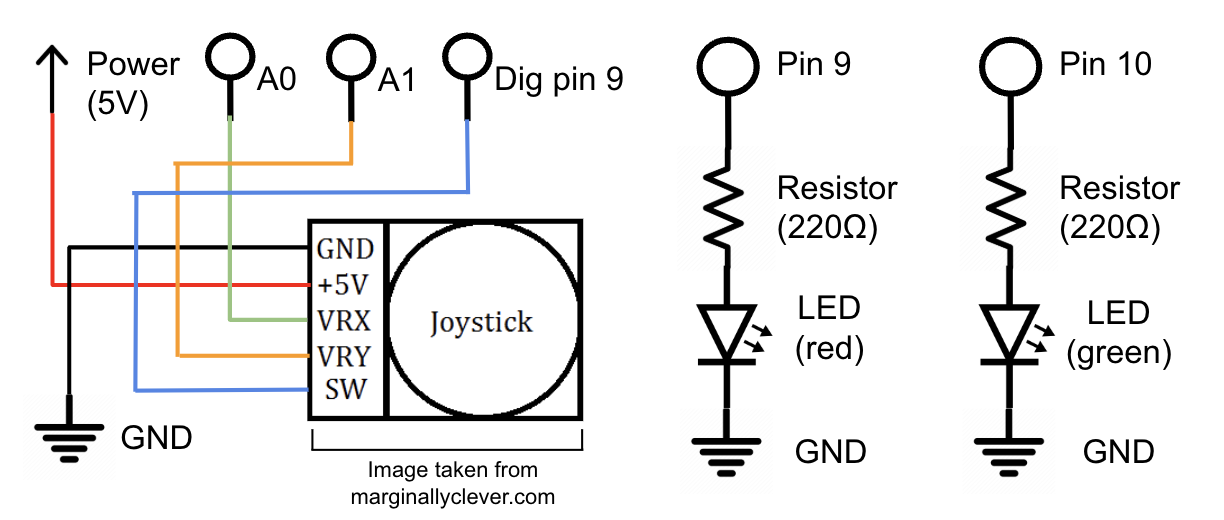
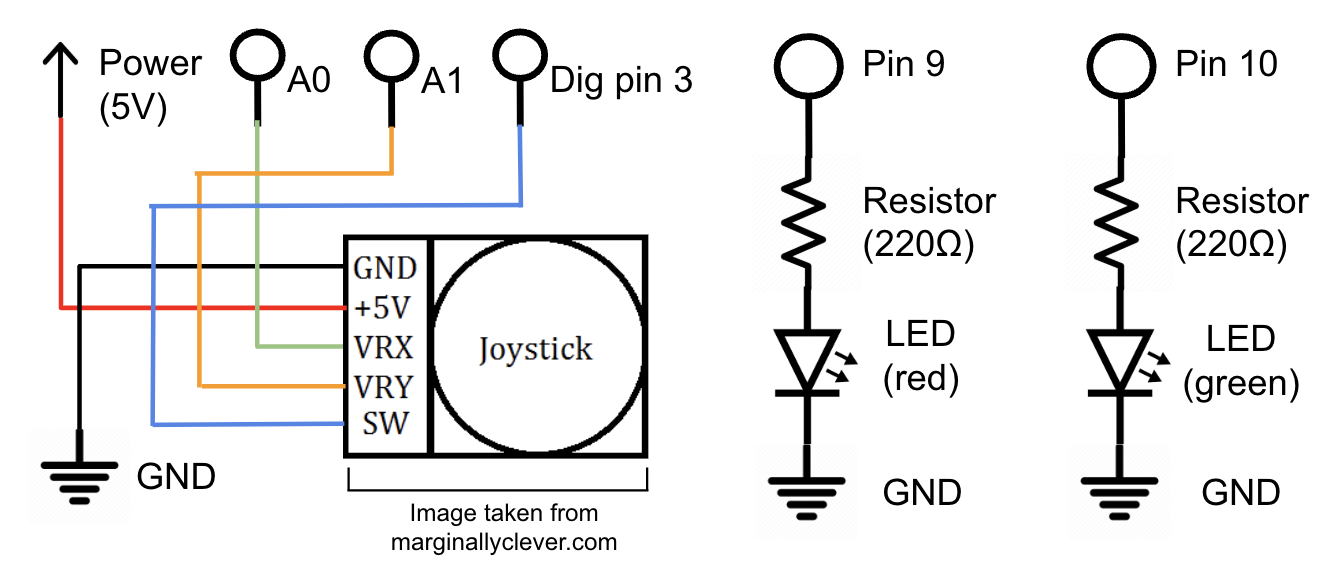
Wrote up to building the circuit

diff --git a/a3.html b/a3.html
@@ -28,5 +28,62 @@
         <p style="text-align: center;">Schematic for a joystick and 2 LEDs</p>
       </div>
     </div>
+
+    <div class="vertical">
+      <h2>Resistance and Voltage Divider Calculations</h2>
+      <p>I used red and green LEDs that each have a 1.8V drop.</p>
+      <p>5V - 1.8V = 0.02A * R</p>
+      <p>3.2V = 0.02A * R</p>
+      <p>R = 3.2V / 0.02A</p>
+      <p>R = 160Ω</p>
+      <p>This means that each LED requires a resistance of at least 160Ω. 
+        Therefore, I used a 220Ω resistor for each light, as that is the 
+        closest value over 160. 
+      </p>
+      <p></p>
+      <p>
+        For the joystick, I did not use a resistor because it has internal
+        potentiometers which are standardly 10kΩ each. 10kΩ allows for a good, 
+        reliable balance between sensitivity and accuracy for most joystick 
+        applications. This allows for a wide range of voltage output with control. 
+      </p>
+      <p>
+        The two potentiometers in the joystick essentially act as voltage dividers, 
+        eliminating the need for any external ones. They each divide the total supply 
+        voltage (5V) by a fraction that changes depending on the joystick's position, 
+        sending that output to x and y. We use analogRead() for the two analog input 
+        pins associated with x and y to obtain the values that correspond with those 
+        positions. 
+      </p>
+      <p>
+        The values we might read at the voltage divider would range between 0V (analog 
+        reading = 0) and 5V (analog reading = 1023). At neutral position, it would read 
+        around 2.5V and the analog reading = 512. To calculate the voltage at any time, 
+        we would use V<sub>out</sub> = V<sub>in</sub> * [<numerator>R<sub>down</sub> 
+        </numerator>&frasl;<denominator> (R<sub>down</sub> + R<sub>up</sub>)</denominator>]. 
+      </p>
+      <p>
+        For example, we know each potentiometer is 10kΩ, so at neutral position, R<sub>down</sub> 
+        = 5000Ω and R<sub>up</sub> = 5000Ω. Therefore, the voltage out at this time would be 5V 
+        * [<numerator>5000Ω </numerator>&frasl;<denominator> (5000Ω + 5000Ω)</denominator>] = 5V 
+        * [<numerator>5000Ω </numerator>&frasl;<denominator> (10000Ω)</denominator>] = 5V * 0.5 
+        = 2.5V. 
+      </p>
+    </div>
+
+    <div class="vertical">
+        <h2>Building the Circuit</h2>
+        <p>
+          I brought the schematic to life, connecting my LEDs to pin 9 and 10. The joystick 
+          is on its own. It grabs power from 5V and connects to ground. VRx and VRy read from 
+          analog pins A0 and A1. Lastly, SW on the joystick is the switch, which functions by 
+          outputting a digital signal if the joystick is moved. This is connected to digital 
+          pin 3. 
+        </p>
+      <div class="imagecaption">
+        <img src="images/A3_circuit.jpeg"/>
+        <p style="text-align: center;">Circuit of a joystick and 2 LEDs</p>
+      </div>
+    </div>
   </body>
 </html>

diff --git a/index.html b/index.html
@@ -23,7 +23,13 @@
       <div class="assignment">
         <a href="a1.html">
           <h2>Assignment 1: Blink!</h2>
-          <img src="images/circuitA1.jpeg" />
+          <img 
+            src="images/circuitA1.jpeg" 
+            data-static="images/circuitA1.jpeg"
+            data-animated="images/A1_circuitop.gif"
+            onmouseover="this.src=this.getAttribute('data-animated')"
+            onmouseout="this.src=this.getAttribute('data-static')"
+          />
         </a>
         <p>Creating a circuit for 3 LEDs to light up (blink!) independently.</p>
       </div>
@@ -31,7 +37,13 @@
       <div class="assignment">
         <a href="a2.html">
           <h2>Assignment 2: Fade!</h2>
-          <img src="images/A2_circuit.jpeg" />
+          <img 
+            src="images/A2_circuit.jpeg" 
+            data-static="images/A2_circuit.jpeg"
+            data-animated="images/A2_circuitop.gif"
+            onmouseover="this.src=this.getAttribute('data-animated')"
+            onmouseout="this.src=this.getAttribute('data-static')"
+          />
         </a>
         <p>Creating a sequence of 3 fading LEDs activated by a button press.</p>
       </div>
@@ -41,8 +53,10 @@
           <h2>Assignment 3: Input!</h2>
           <img src="images/A3_circuit.jpeg" />
         </a>
-        <p>Taking in change from the physical world (with a joystick) to change 
-          the output of 2 LEDs with the change in resistance.</p>
+        <p>
+          Taking in change from the physical world (with a joystick) to change 
+          the output of 2 LEDs with the change in resistance.
+        </p>
       </div>
     </div>
   </body>
